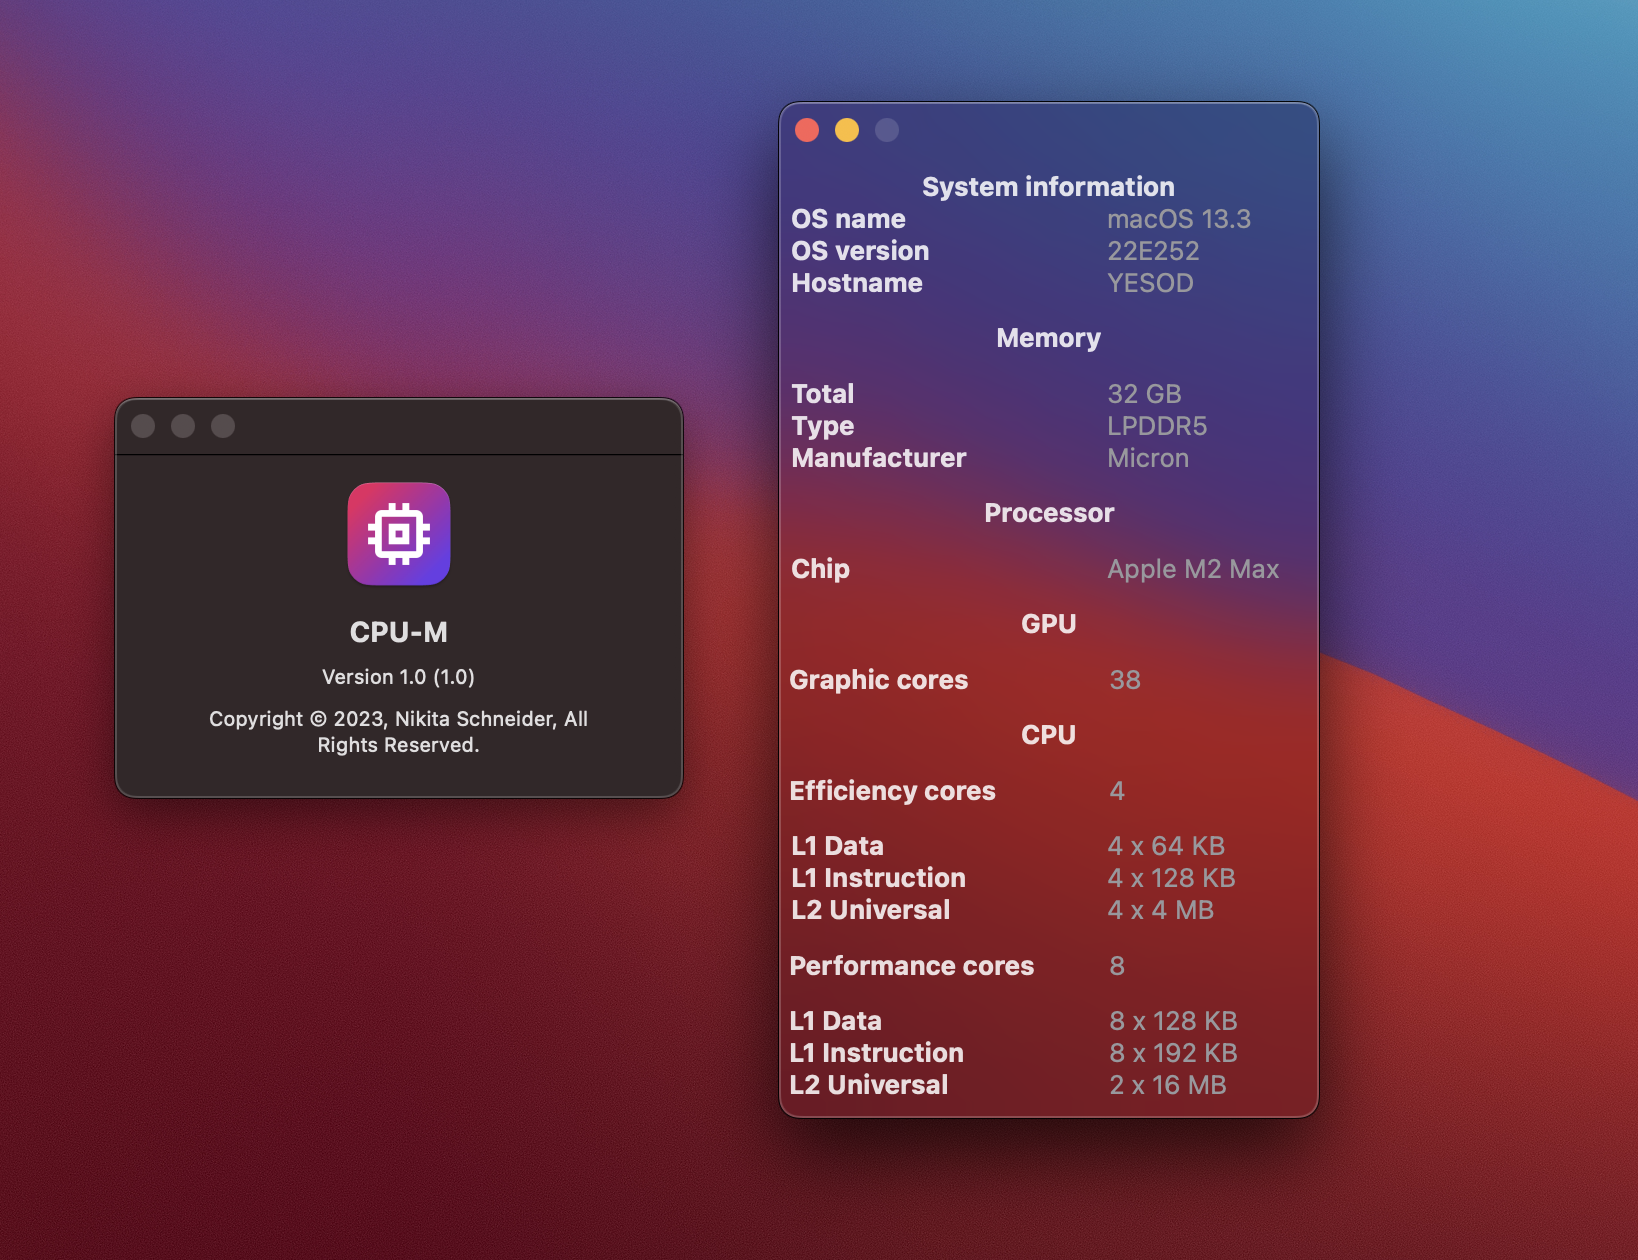
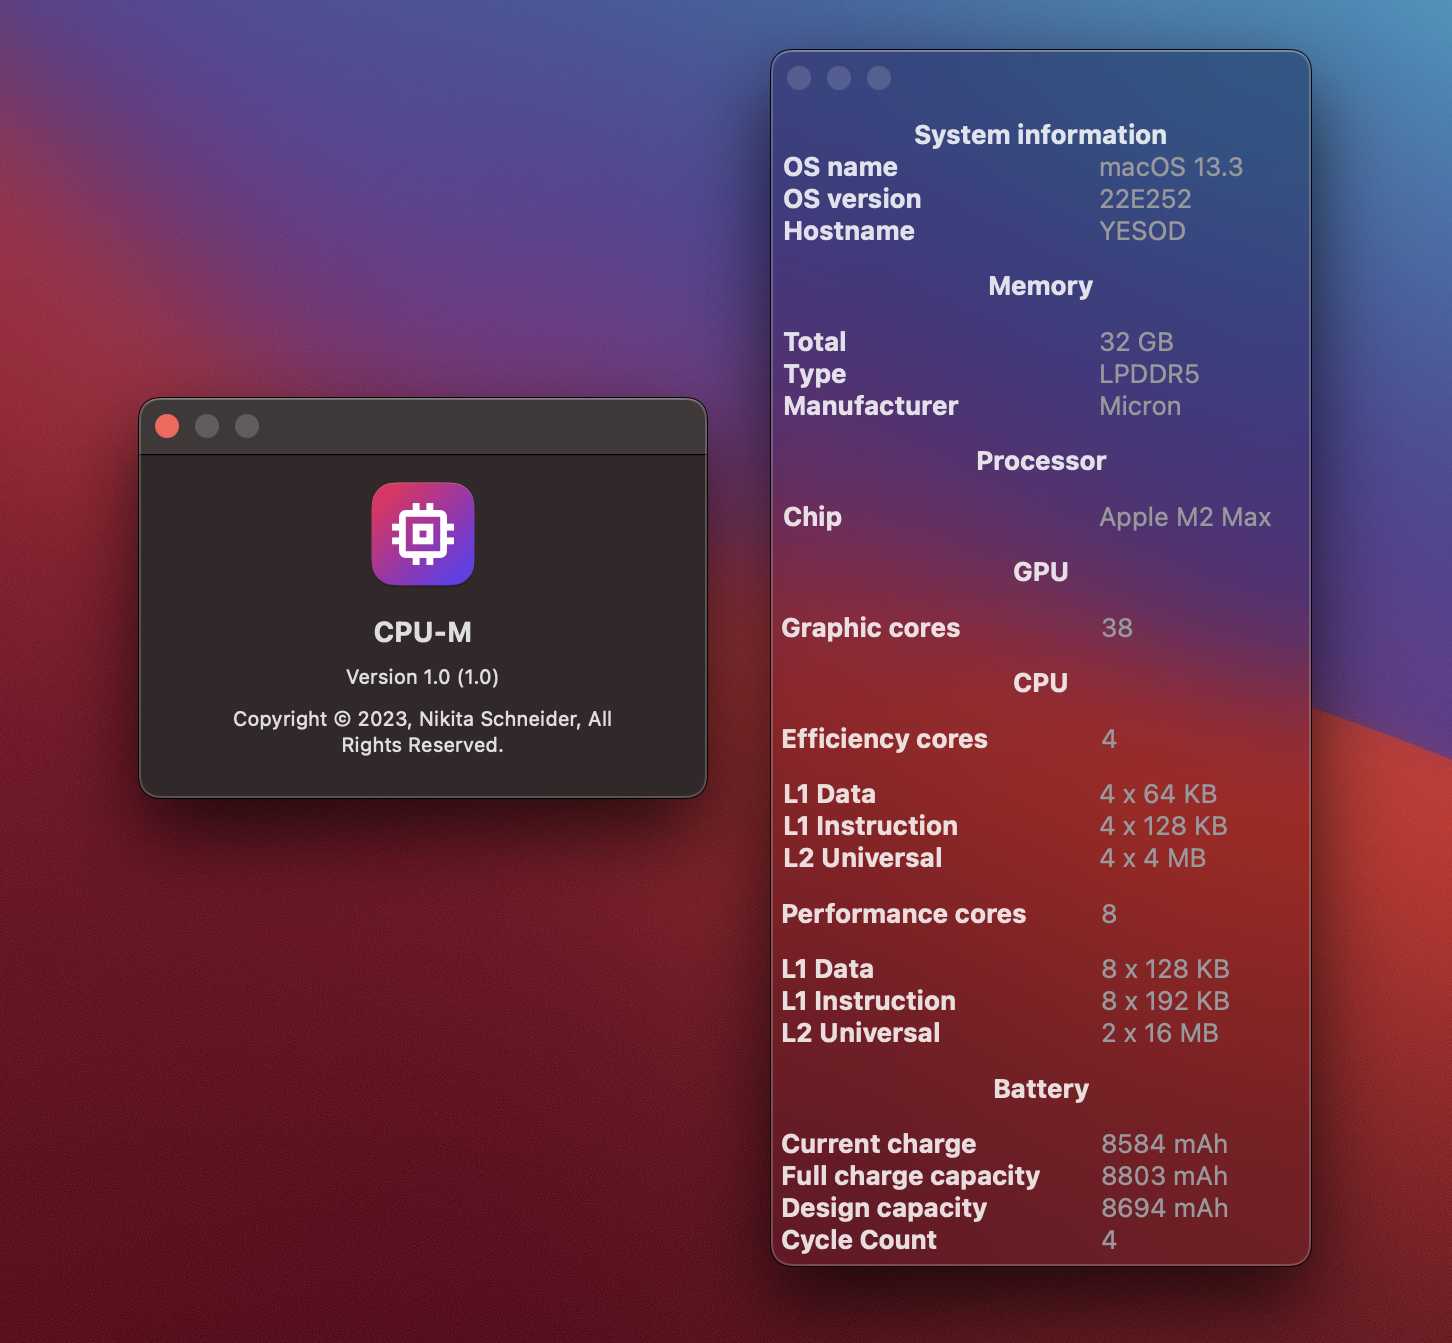
Refactoring

Changed region(s): [[0.062, 0.031, 1.0, 0.9905]]

diff --git a/CPU-M/ContentView.swift b/CPU-M/ContentView.swift
@@ -36,9 +36,9 @@ extension Process {
     
     static let os_name = stringFromTerminal(baseCommand: "sw_vers -", command: "productName")
     static let os_version = stringFromTerminal(baseCommand: "sw_vers -", command: "productVersion")
-    
-    static func getGPUCoreCount() -> String {
-        let rawData = Process.stringFromTerminal(baseCommand: "ioreg -l | ", command: "grep gpu-core-count")
+        
+    static func getIORegData(param: String) -> String {
+        let rawData = Process.stringFromTerminal(baseCommand: "ioreg -l -w0 | ", command: "grep " + param)
         if let firstIndex = rawData.firstIndex(of: "=") {
             return String(rawData[firstIndex...].dropFirst(2))
         }
@@ -47,8 +47,8 @@ extension Process {
         }
     }
     
-    static func getMemoryInfo(param: String) -> String {
-        let rawData = Process.stringFromTerminal(baseCommand: "system_profiler SPMemoryDataType | ", command: "grep " + param)
+    static func getSysProfilerData(base: String, param: String) -> String {
+        let rawData = Process.stringFromTerminal(baseCommand: "system_profiler " + base + " | ", command: "grep " + param)
         if let firstIndex = rawData.firstIndex(of: ":") {
             return String(rawData[firstIndex...].dropFirst(2))
         }
@@ -149,7 +149,7 @@ struct ContentView: View {
                     Text("Type")
                         .font(.headline)
                         .frame(width: 150, alignment: .leading)
-                    Text(Process.getMemoryInfo(param: "Type"))
+                    Text(Process.getSysProfilerData(base: "SPMemoryDataType", param: "Type"))
                         .frame(width: 100, alignment: .leading)
                         .foregroundColor(.gray)
                 }
@@ -157,7 +157,7 @@ struct ContentView: View {
                     Text("Manufacturer")
                         .font(.headline)
                         .frame(width: 150, alignment: .leading)
-                    Text(Process.getMemoryInfo(param: "Manufacturer"))
+                    Text(Process.getSysProfilerData(base: "SPMemoryDataType", param: "Manufacturer"))
                         .frame(width: 100, alignment: .leading)
                         .foregroundColor(.gray)
                 }
@@ -195,7 +195,7 @@ struct ContentView: View {
                             .font(.headline)
                             .lineLimit(2)
                             .frame(width: 150, alignment: .leading)
-                        Text(Process.getGPUCoreCount())
+                        Text(Process.getIORegData(param: "gpu-core-count"))
                             .frame(width: 100, alignment: .leading)
                             .foregroundColor(.gray)
                     }
@@ -284,10 +284,54 @@ struct ContentView: View {
                             .frame(width: 100, alignment: .leading)
                             .foregroundColor(.gray)
                     }
+                }.padding(.bottom, 5)
+            }
+            
+            VStack {
+                VStack(alignment: .center) {
+                    HStack {
+                        Text("Battery")
+                            .font(.headline)
+                            .frame(width: 150, alignment: .center)
+                    }
+                }.padding(.bottom, 5)
+                
+                VStack(alignment: .leading)  {
+                    HStack(spacing: 10) {
+                        Text("Current charge")
+                            .font(.headline)
+                            .frame(width: 150, alignment: .leading)
+                        Text(Process.getIORegData(param: "AppleRawCurrentCapacity") + " mAh")
+                            .foregroundColor(.gray)
+                    }
+                    HStack(spacing: 10) {
+                        Text("Full charge capacity")
+                            .font(.headline)
+                            .frame(width: 150, alignment: .leading)
+                        Text(Process.getIORegData(param: "AppleRawMaxCapacity") + " mAh")
+                            .frame(width: 100, alignment: .leading)
+                            .foregroundColor(.gray)
+                    }
+                    HStack(spacing: 10) {
+                        Text("Design capacity")
+                            .font(.headline)
+                            .frame(width: 150, alignment: .leading)
+                        Text(Process.getIORegData(param: "'\"DesignCapacity\" = '") + " mAh")
+                            .frame(width: 100, alignment: .leading)
+                            .foregroundColor(.gray)
+                    }
+                    HStack(spacing: 10) {
+                        Text("Cycle Count")
+                            .font(.headline)
+                            .frame(width: 150, alignment: .leading)
+                        Text(Process.getSysProfilerData(base: "SPPowerDataType", param: "'Cycle Count'"))
+                            .frame(width: 100, alignment: .leading)
+                            .foregroundColor(.gray)
+                    }
                 }
             }
         }
-        .frame(minWidth: 270, maxWidth: 270, minHeight: 480, maxHeight: 480, alignment:.top)
+        .frame(minWidth: 270, maxWidth: 270, minHeight: 580, maxHeight: 580, alignment:.top)
         .fixedSize()
         .background(VisualEffectView().ignoresSafeArea())
     }
